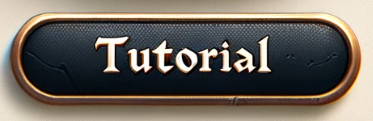
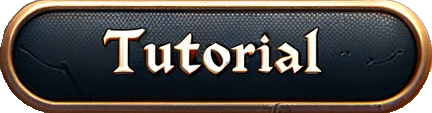
alignement

diff --git a/src/main/java/others/Tutorial.java b/src/main/java/others/Tutorial.java
@@ -47,8 +47,6 @@ public class Tutorial extends JPanel {
         int[] coords = Resolution.calculateResolution(450, 450);
         texte.setLocation(coords[0], coords[1]);
         texte.setBounds(coords[0], coords[1], 600, 200);
-        texte.setBackground(Color.GRAY);
-        texte.setOpaque(true);
         texte.setHorizontalAlignment(SwingConstants.CENTER); // Aligner le texte au centre
         texte.setVerticalAlignment(SwingConstants.TOP); // Aligner le texte en haut
         texte.setVerticalTextPosition(SwingConstants.TOP); // Positionner le texte en haut
@@ -62,7 +60,7 @@ public class Tutorial extends JPanel {
         int height = Constants.Game.HEIGHT;
         backgroundImage = icon.getImage().getScaledInstance(width, height, Image.SCALE_SMOOTH);
         images[0] = iconSheep.getImage().getScaledInstance(100, 100, Image.SCALE_SMOOTH);
-        images[1] = iconBubble.getImage().getScaledInstance(300, 300, Image.SCALE_SMOOTH);
+        images[1] = iconBubble.getImage().getScaledInstance(820, 600, Image.SCALE_SMOOTH);
 
         add(texte);
     }
@@ -96,6 +94,13 @@ public class Tutorial extends JPanel {
 
     public void updateText() {
         texte.setText(readLine(i - 1));
+        if (i >= 13) {
+            int[] coo = Resolution.calculateResolution(450, 350);
+            texte.setLocation(coo[0], coo[1]);
+        } else {
+            int[] coords = Resolution.calculateResolution(450, 450);
+            texte.setLocation(coords[0], coords[1]);
+        }
     }
 
     public void updateImage() {
@@ -109,8 +114,13 @@ public class Tutorial extends JPanel {
     protected void paintComponent(Graphics g) {
         super.paintComponent(g);
         g.drawImage(backgroundImage, 0, 0, this);
-        g.drawImage(images[0], 185, 700, null);
-        //g.drawImage(images[1], 500, 300, null);
+        if (i >= 13) {
+            g.drawImage(images[0], 185, 500, null);
+            g.drawImage(images[1], 385, 150, null);
+        } else {
+            g.drawImage(images[0], 185, 700, null);
+            g.drawImage(images[1], 380, 350, null);
+        }
     }
 
     public String readLine(int n) {
